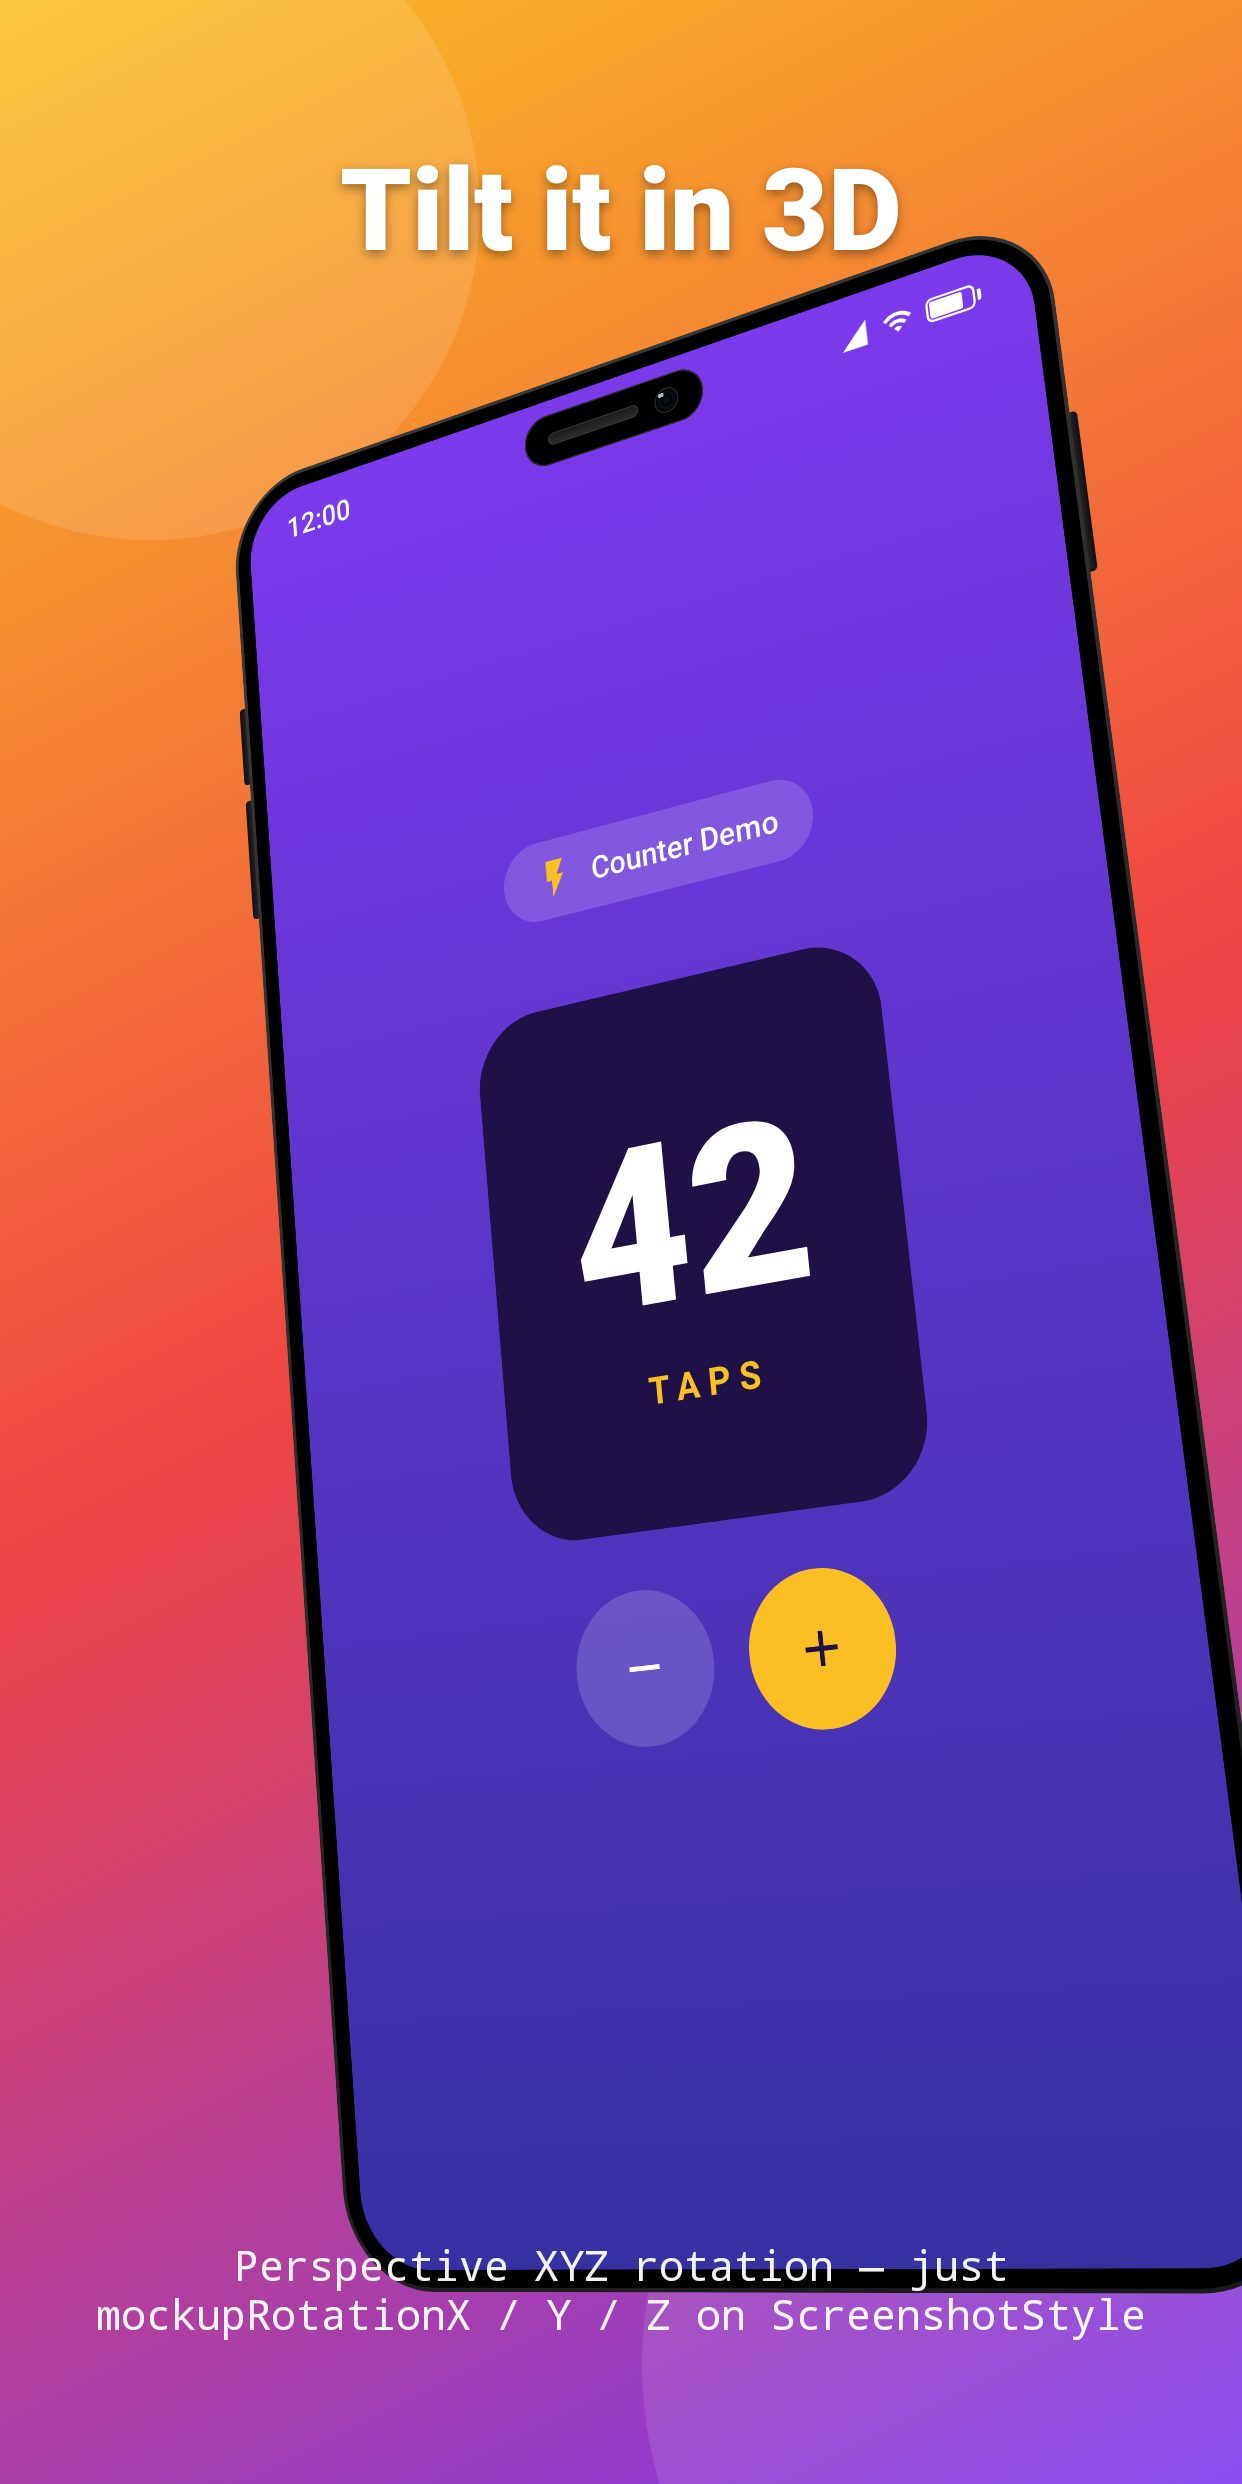
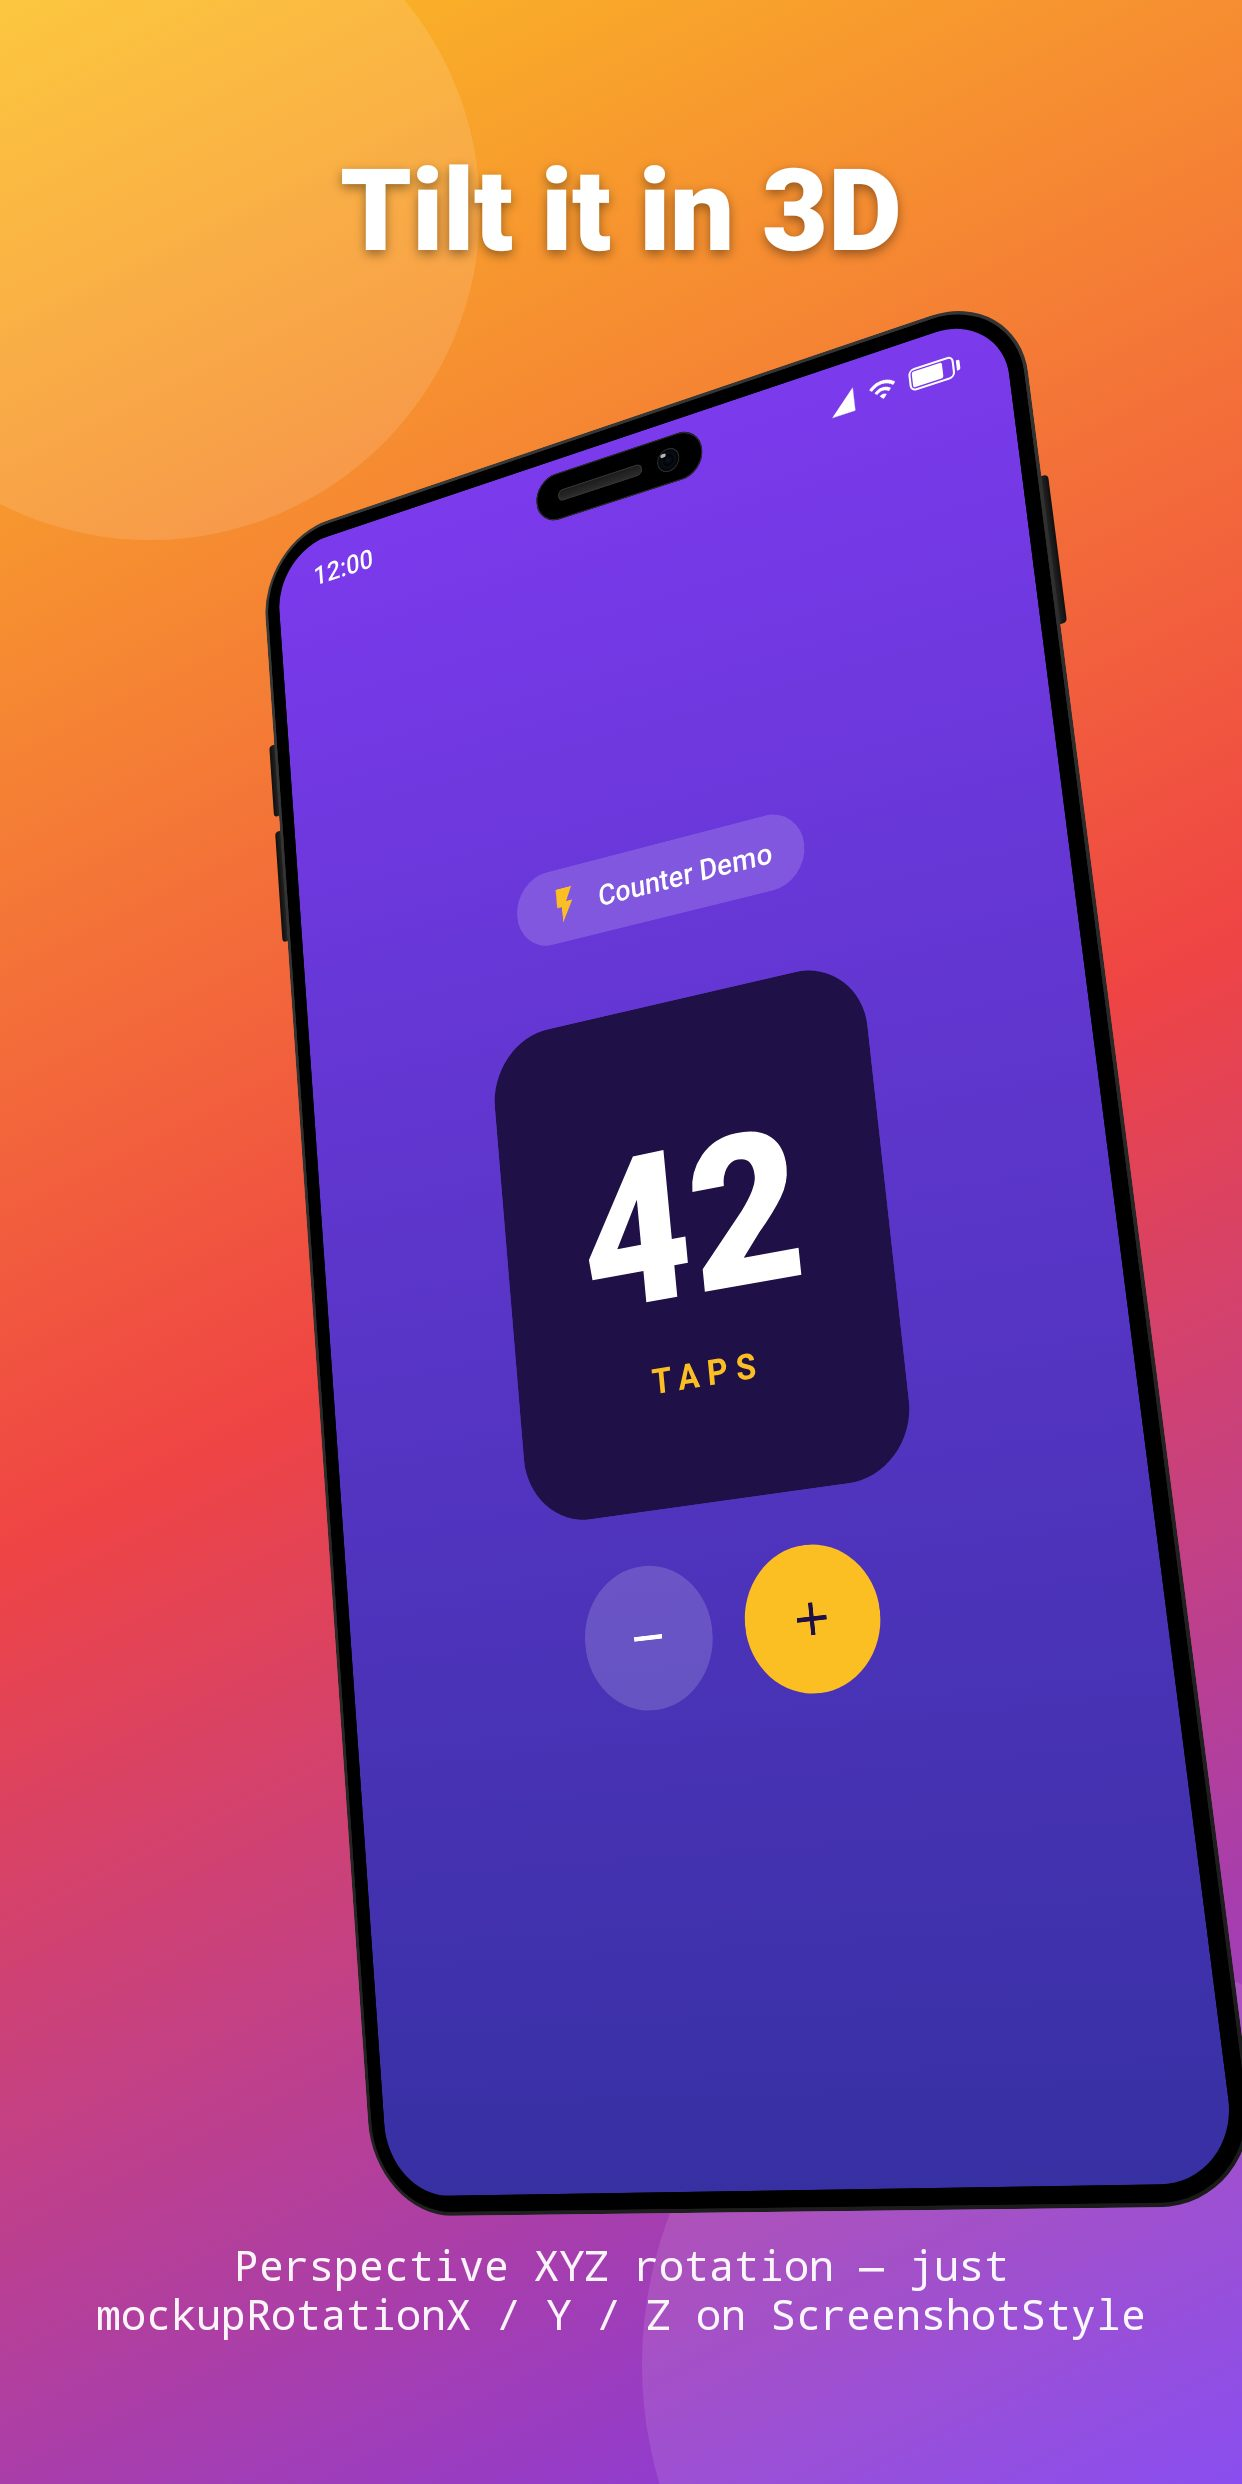
Give MockupPosition.Middle its spacing explicitly
Middle put the title straight above the mockup and the description straight
below it, with nothing between them but whatever the weighted Column had
spare. On a 914dp canvas there was enough slack that the gap read as
deliberate. On a shorter one the mockup grows into the whole column and the
text ends up against the bezel — phone_middle had 272/223px of margin where
main had 356/313, and the title was touching the device.

Top and Bottom have always put an explicit 24dp between the device and the
text they sit against. Middle now does the same, as vertical padding on the
weighted Column, so the mockup is bounded by it rather than sized to fill the
gap. phone_middle comes back to 342/293.

Only the shots whose mockup was height-limited move: phone_middle,
counter_styled, counter_perspective, apple_middle. The tablets are
width-limited, so 48dp off the column changes nothing for them and their
bytes are identical.

Two of those were already slightly wrong on main and are better for it —
counter_styled and counter_perspective had their captions printed over the
device, and apple_middle's description was pushed off the bottom of the image
entirely. All three now clear the bezel.

The Middle golden is re-recorded, deliberately: this is a change to what the
frame should look like.

diff --git a/library/src/main/kotlin/dev/lucianosantos/storescreenshots/frames/FramedLayout.kt b/library/src/main/kotlin/dev/lucianosantos/storescreenshots/frames/FramedLayout.kt
@@ -118,8 +118,13 @@ internal fun FramedLayout(
                 }
                 MockupPosition.Middle -> {
                     titleSlot()
+                    // The same 24dp of air Top and Bottom put between the device and the text they
+                    // sit against, made explicit here rather than left to whatever the weighted
+                    // Column happens to have spare. On a tall canvas there was enough slack that
+                    // the gap looked deliberate; on a shorter one the mockup grows into the whole
+                    // column and the title and description end up touching the bezel.
                     Column(
-                        modifier = Modifier.weight(1f),
+                        modifier = Modifier.weight(1f).padding(vertical = 24.dp),
                         verticalArrangement = Arrangement.Center,
                         horizontalAlignment = Alignment.CenterHorizontally,
                     ) {
